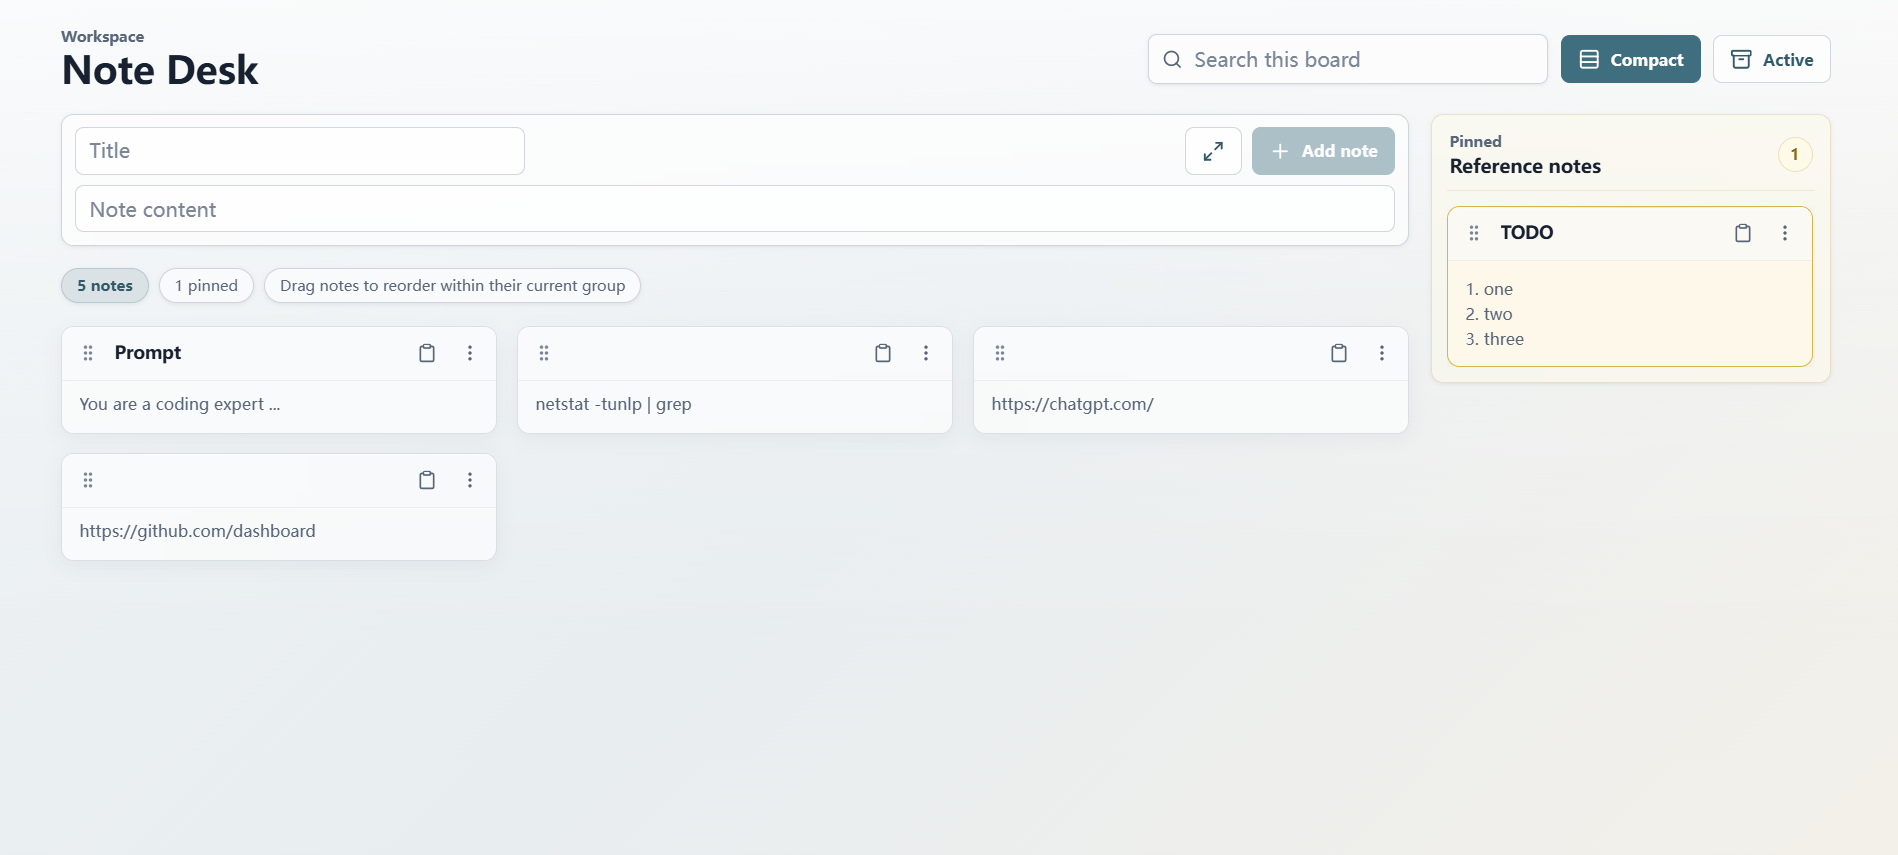
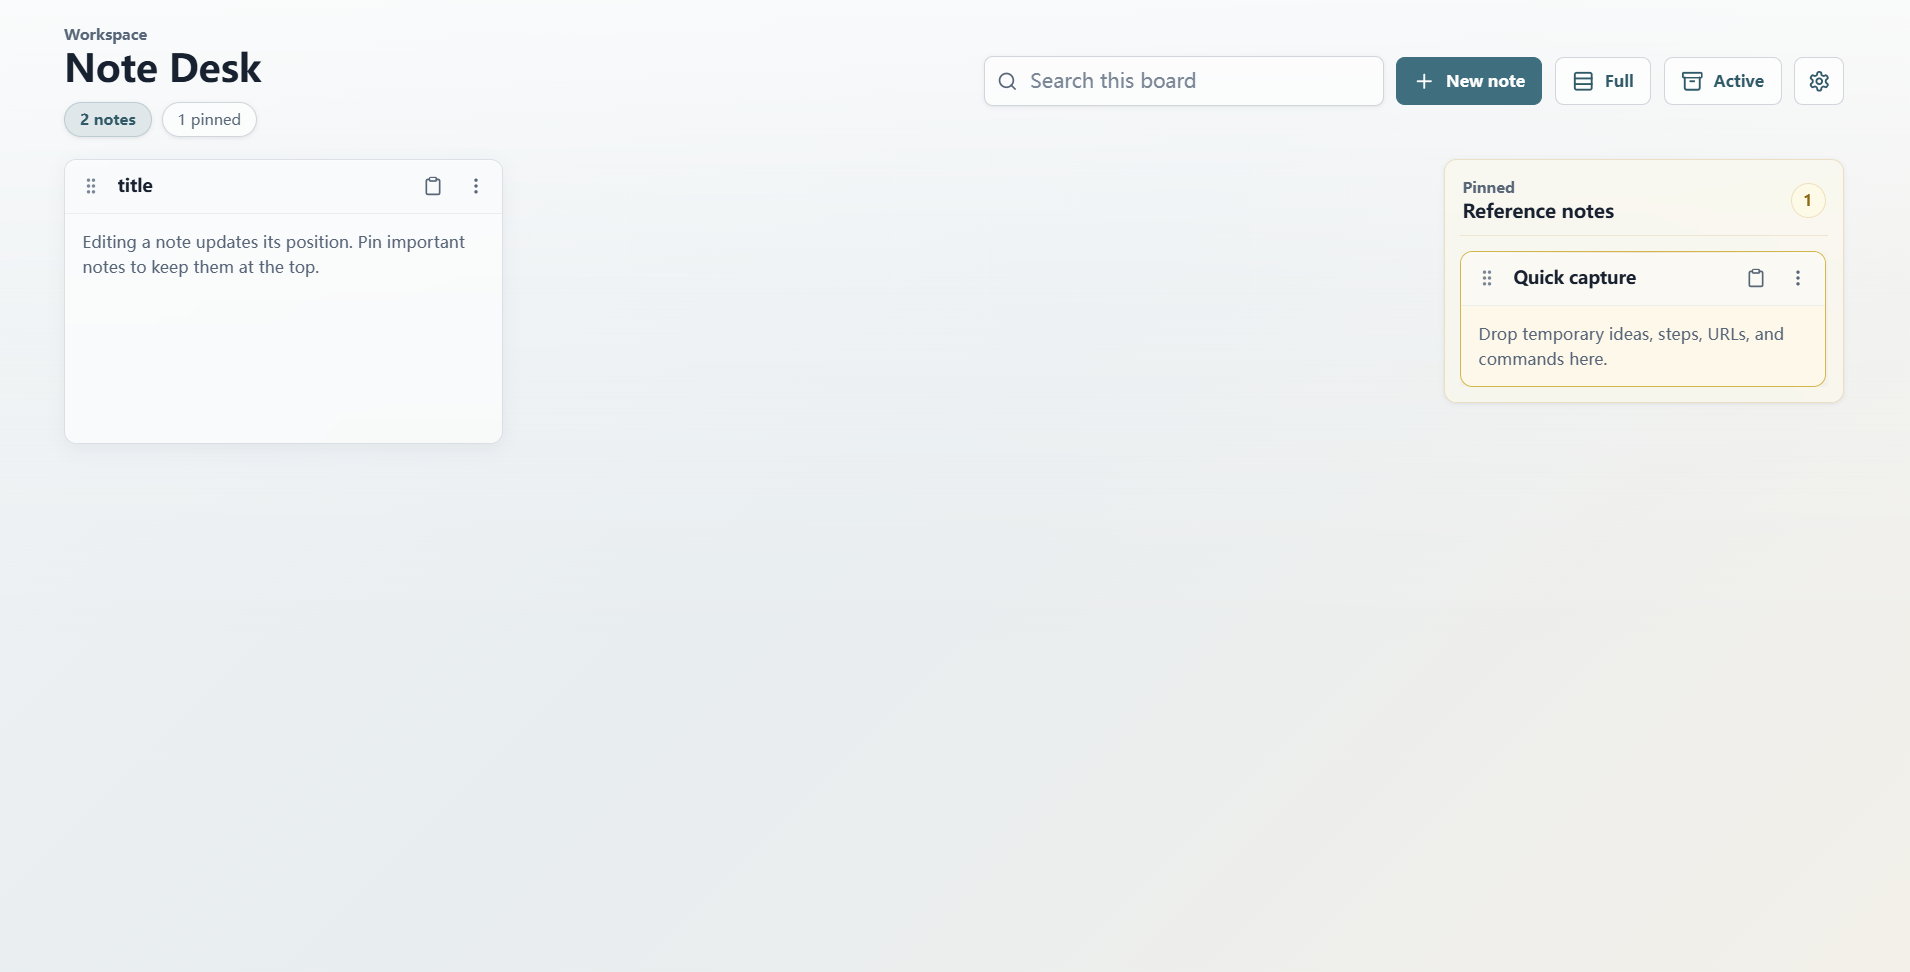
[codex] Fix note interactions and shortcut focus (#5)
* Fix note interactions and shortcut focus

* Set tray icon

* Update README screenshot

diff --git a/src/main.tsx b/src/main.tsx
@@ -22,6 +22,7 @@ import { CSS } from '@dnd-kit/utilities';
 import {
   Archive,
   ArchiveRestore,
+  Check,
   Clipboard,
   GripVertical,
   Maximize2,
@@ -163,6 +164,7 @@ function App() {
   const [dragOriginNotes, setDragOriginNotes] = useState<Note[] | null>(null);
   const [noteDensity, setNoteDensity] = useState<'full' | 'compact'>('full');
   const [openNoteMenuId, setOpenNoteMenuId] = useState<number | null>(null);
+  const [copiedNoteId, setCopiedNoteId] = useState<number | null>(null);
   const [settings, setSettings] = useState<AppSettings>(DEFAULT_SETTINGS);
   const [settingsDraft, setSettingsDraft] = useState<AppSettings>(DEFAULT_SETTINGS);
   const [isSettingsOpen, setIsSettingsOpen] = useState(false);
@@ -362,9 +364,10 @@ function App() {
     }
   }
 
-  async function copyNote(content: string) {
+  async function copyNote(noteId: number, content: string) {
     try {
       await navigator.clipboard.writeText(content);
+      setCopiedNoteId(noteId);
     } catch {
       setError('Clipboard permission was denied.');
     }
@@ -660,8 +663,14 @@ function App() {
                           deleteNote={deleteNote}
                           density={noteDensity}
                           isMenuOpen={openNoteMenuId === note.id}
+                          isCopied={copiedNoteId === note.id}
                           note={note}
+                          onCopyReset={() => setCopiedNoteId((value) => (value === note.id ? null : value))}
                           onMenuToggle={() => setOpenNoteMenuId((value) => (value === note.id ? null : note.id))}
+                          onPinnedToggle={() => {
+                            setOpenNoteMenuId(null);
+                            void patchNote(note.id, { pinned: !note.pinned });
+                          }}
                           openNoteModal={openNoteModal}
                           patchNote={patchNote}
                           registerNoteElement={registerNoteElement}
@@ -692,8 +701,14 @@ function App() {
                         deleteNote={deleteNote}
                         density="pinned"
                         isMenuOpen={openNoteMenuId === note.id}
+                        isCopied={copiedNoteId === note.id}
                         note={note}
+                        onCopyReset={() => setCopiedNoteId((value) => (value === note.id ? null : value))}
                         onMenuToggle={() => setOpenNoteMenuId((value) => (value === note.id ? null : note.id))}
+                        onPinnedToggle={() => {
+                          setOpenNoteMenuId(null);
+                          void patchNote(note.id, { pinned: !note.pinned });
+                        }}
                         openNoteModal={openNoteModal}
                         patchNote={patchNote}
                         registerNoteElement={registerNoteElement}
@@ -932,13 +947,16 @@ function SettingsModal({
 
 type NoteCardProps = {
   canDragSort: boolean;
-  copyNote?: (content: string) => void;
+  copyNote?: (noteId: number, content: string) => void;
   deleteNote?: (noteId: number) => void;
   density: 'full' | 'compact' | 'pinned';
+  isCopied?: boolean;
   isMenuOpen?: boolean;
   isOverlay?: boolean;
   note: Note;
+  onCopyReset?: () => void;
   onMenuToggle?: () => void;
+  onPinnedToggle?: () => void;
   openNoteModal?: (note: Note) => void;
   patchNote?: (noteId: number, patch: NotePatch) => Promise<boolean>;
   registerNoteElement?: (noteId: number, element: HTMLElement | null) => void;
@@ -992,11 +1010,14 @@ function NoteCardShell({
   copyNote,
   deleteNote,
   density,
+  isCopied = false,
   isMenuOpen = false,
   isOverlay = false,
   isSorting = false,
   note,
+  onCopyReset,
   onMenuToggle,
+  onPinnedToggle,
   openNoteModal,
   patchNote,
   setActivatorNodeRef,
@@ -1026,8 +1047,8 @@ function NoteCardShell({
         </span>
         <h3 className={`note-title ${hasTitle ? '' : 'is-untitled'}`}>{title}</h3>
         {copyNote ? (
-          <button title="Copy" onClick={() => copyNote(note.content)}>
-            <Clipboard size={16} />
+          <button title={isCopied ? 'Copied' : 'Copy'} onClick={() => copyNote(note.id, note.content)} onMouseLeave={onCopyReset}>
+            {isCopied ? <Check size={16} /> : <Clipboard size={16} />}
           </button>
         ) : null}
         {onMenuToggle ? (
@@ -1037,7 +1058,7 @@ function NoteCardShell({
             </button>
             {isMenuOpen ? (
               <div className="note-menu" role="menu">
-                <button onClick={() => void patchNote?.(note.id, { pinned: !note.pinned })}>
+                <button onClick={onPinnedToggle}>
                   <Pin size={15} />
                   <span>{note.pinned ? 'Unpin' : 'Pin'}</span>
                 </button>

diff --git a/src/desktop/shortcuts.ts b/src/desktop/shortcuts.ts
@@ -20,6 +20,12 @@ export async function configureWindowToggleShortcut(shortcut: string, onHideRequ
       return;
     }
 
+    const isFocused = await invoke<boolean>('is_main_window_focused');
+    if (!isFocused) {
+      await invoke('show_main_window');
+      return;
+    }
+
     const canHide = await activeHandler?.();
     if (canHide) await hideMainWindow();
   });

diff --git a/src-tauri/src/main.rs b/src-tauri/src/main.rs
@@ -18,6 +18,14 @@ fn is_main_window_visible(app: tauri::AppHandle) -> Result<bool, String> {
 }
 
 #[tauri::command]
+fn is_main_window_focused(app: tauri::AppHandle) -> Result<bool, String> {
+  let window = app
+    .get_webview_window("main")
+    .ok_or_else(|| "Main window not found".to_string())?;
+  window.is_focused().map_err(|error| error.to_string())
+}
+
+#[tauri::command]
 fn show_main_window(app: tauri::AppHandle) -> Result<(), String> {
   let window = app
     .get_webview_window("main")
@@ -39,9 +47,10 @@ fn setup_tray(app: &tauri::App) -> tauri::Result<()> {
   let quit = MenuItem::with_id(app, "quit", "Quit", true, None::<&str>)?;
   let menu = Menu::with_items(app, &[&show_hide, &quit])?;
 
-  TrayIconBuilder::new()
+  let mut tray = TrayIconBuilder::new()
     .menu(&menu)
     .show_menu_on_left_click(true)
+    .tooltip("Note Desk")
     .on_menu_event(|app, event| match event.id.as_ref() {
       "show_hide" => {
         if let Some(window) = app.get_webview_window("main") {
@@ -58,8 +67,13 @@ fn setup_tray(app: &tauri::App) -> tauri::Result<()> {
       }
       "quit" => app.exit(0),
       _ => {}
-    })
-    .build(app)?;
+    });
+
+  if let Some(icon) = app.default_window_icon().cloned() {
+    tray = tray.icon(icon);
+  }
+
+  tray.build(app)?;
 
   Ok(())
 }
@@ -79,6 +93,7 @@ fn main() {
     })
     .invoke_handler(tauri::generate_handler![
       is_main_window_visible,
+      is_main_window_focused,
       show_main_window,
       hide_main_window,
       notes::ensure_board,